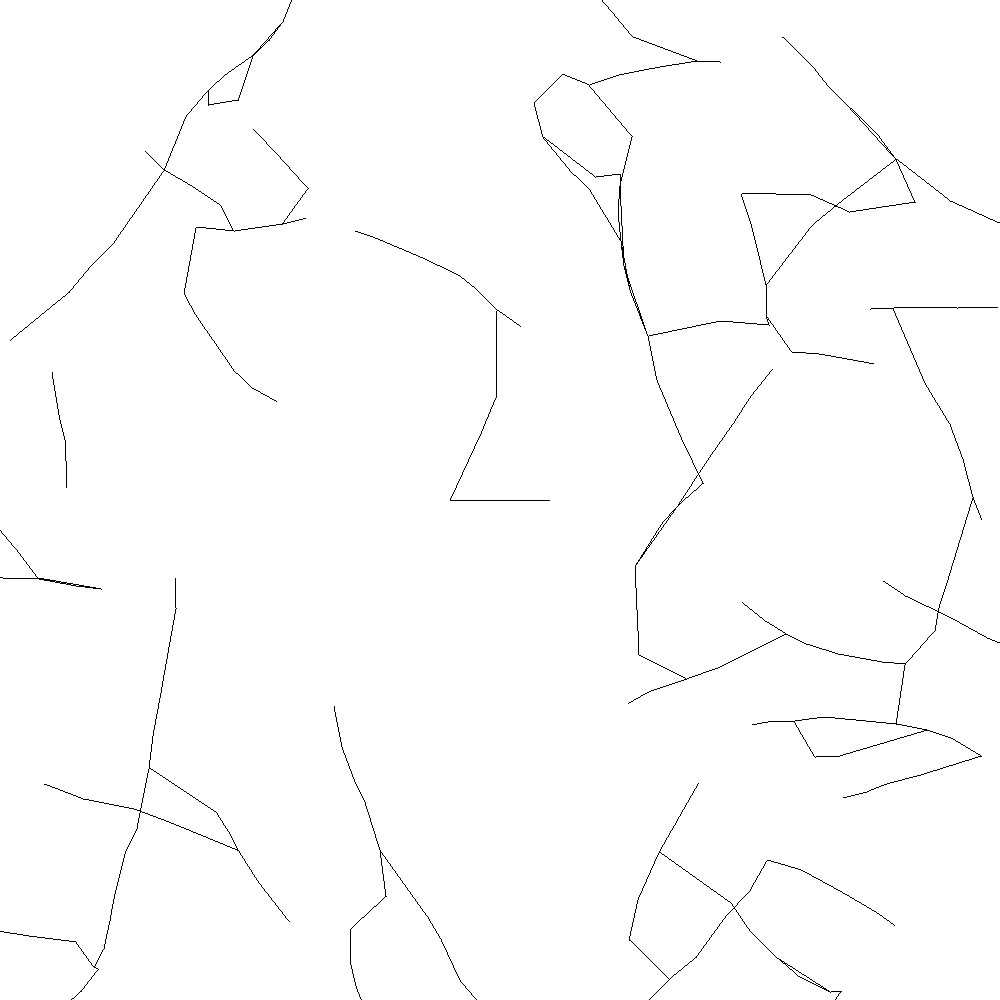
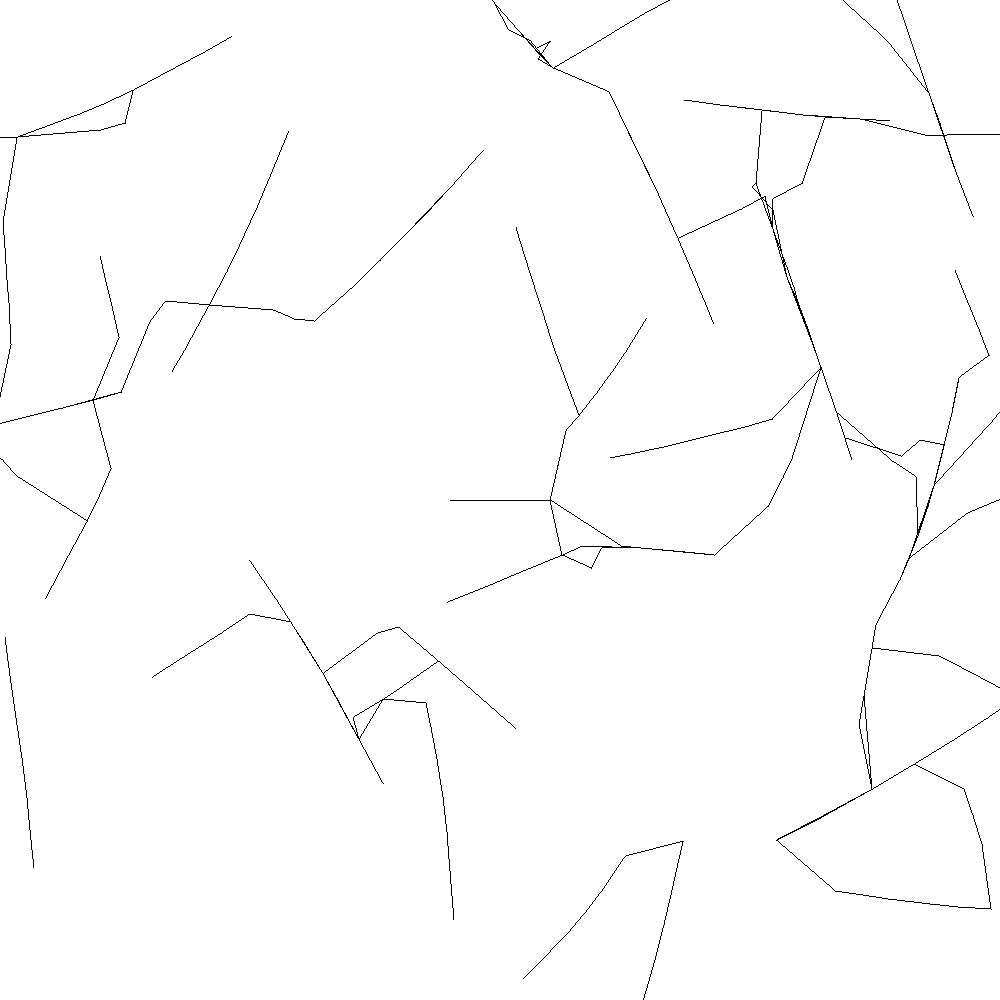
g

Changed region(s): [[0.775, 0.248, 0.806, 0.279], [0.744, 0.186, 0.775, 0.217], [0.651, 0.837, 0.682, 0.868]]

diff --git a/src/generators/city.rs b/src/generators/city.rs
@@ -56,8 +56,8 @@ pub fn set_up_roads(city: &mut City) -> Queue<(Point, f32)> {
     }
     fn next_point(last: Point, second_to_last: Point) -> Point {
         let delta = (last.as_vec2() - second_to_last.as_vec2()).normalized();
-        let distance = (random::<u64>() % 16 + 20) as f32;
-        let dtheta = ((random::<u64>() % 64) as i32 - 32) as f32 / (128.);
+        let distance = (random::<u64>() % 32 + 20) as f32;
+        let dtheta = ((random::<u64>() % 64) as i32 - 32) as f32 / (1024.);
         let new_point = last.as_vec2() + delta.rotated(dtheta) * distance;
         Point::from_vec2(new_point)
     }
@@ -86,7 +86,7 @@ pub fn set_up_roads(city: &mut City) -> Queue<(Point, f32)> {
                 std::cmp::Ordering::Greater
             }
         });
-    for _ in 0..=50 {
+    for i in 0..=50 {
         let mut v = VecDeque::new();
         let p0 = random_point();
         let p1 = {
@@ -100,7 +100,8 @@ pub fn set_up_roads(city: &mut City) -> Queue<(Point, f32)> {
         v.push_back(p1);
         let mut last = p1;
         let mut dist = p1.as_vec2().distance_to(p0.as_vec2());
-        let max_dist = (random::<u64>() % 200 + 200) as f32;
+        let max_dist = (random::<u64>() % 200 + 400) as f32;
+        let mut fs = 0;
         while dist < max_dist {
             let (back, mut p) = next_point_from_list(&v);
             'it: for j in &city.roads {
@@ -119,8 +120,13 @@ pub fn set_up_roads(city: &mut City) -> Queue<(Point, f32)> {
             let d = last.as_vec2().distance_to(p.as_vec2());
             dist += d;
             last = p;
+            fs += 1;
+            if fs>= 500{
+                break;
+            }
         }
         city.roads.push(Road { points: v.into() });
+        println!("{}",i);
     }
     point_queue
 }

diff --git a/src/generators/buildings.rs b/src/generators/buildings.rs
@@ -1,4 +1,4 @@
-use std::{collections::HashSet, os::macos::raw::stat};
+use std::{collections::HashSet};
 
 use libc::rand;
 use rand::{random, seq::SliceRandom};
